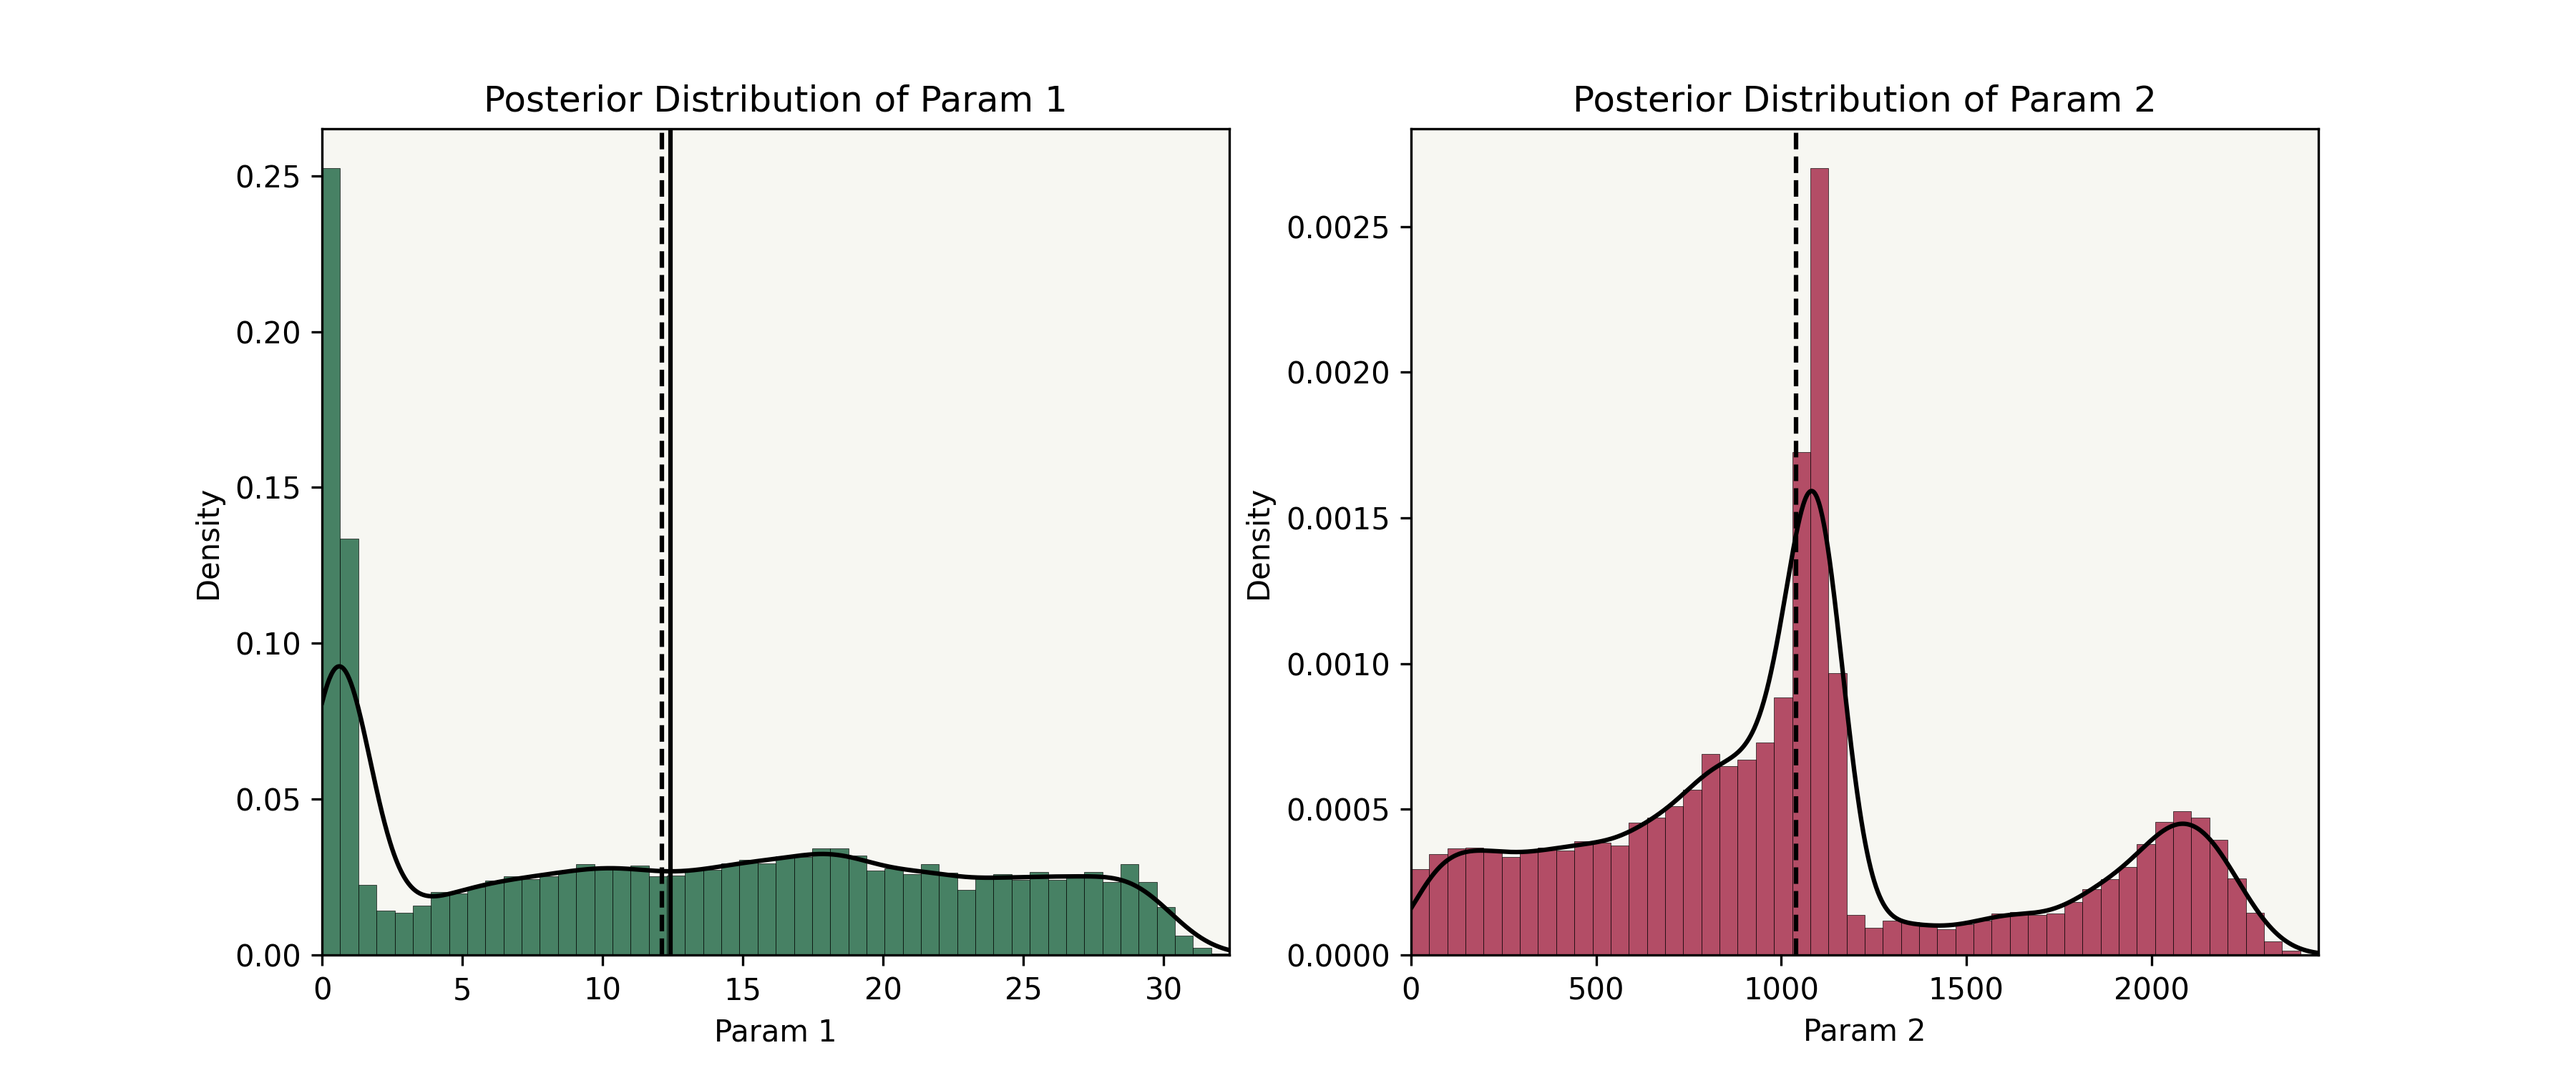
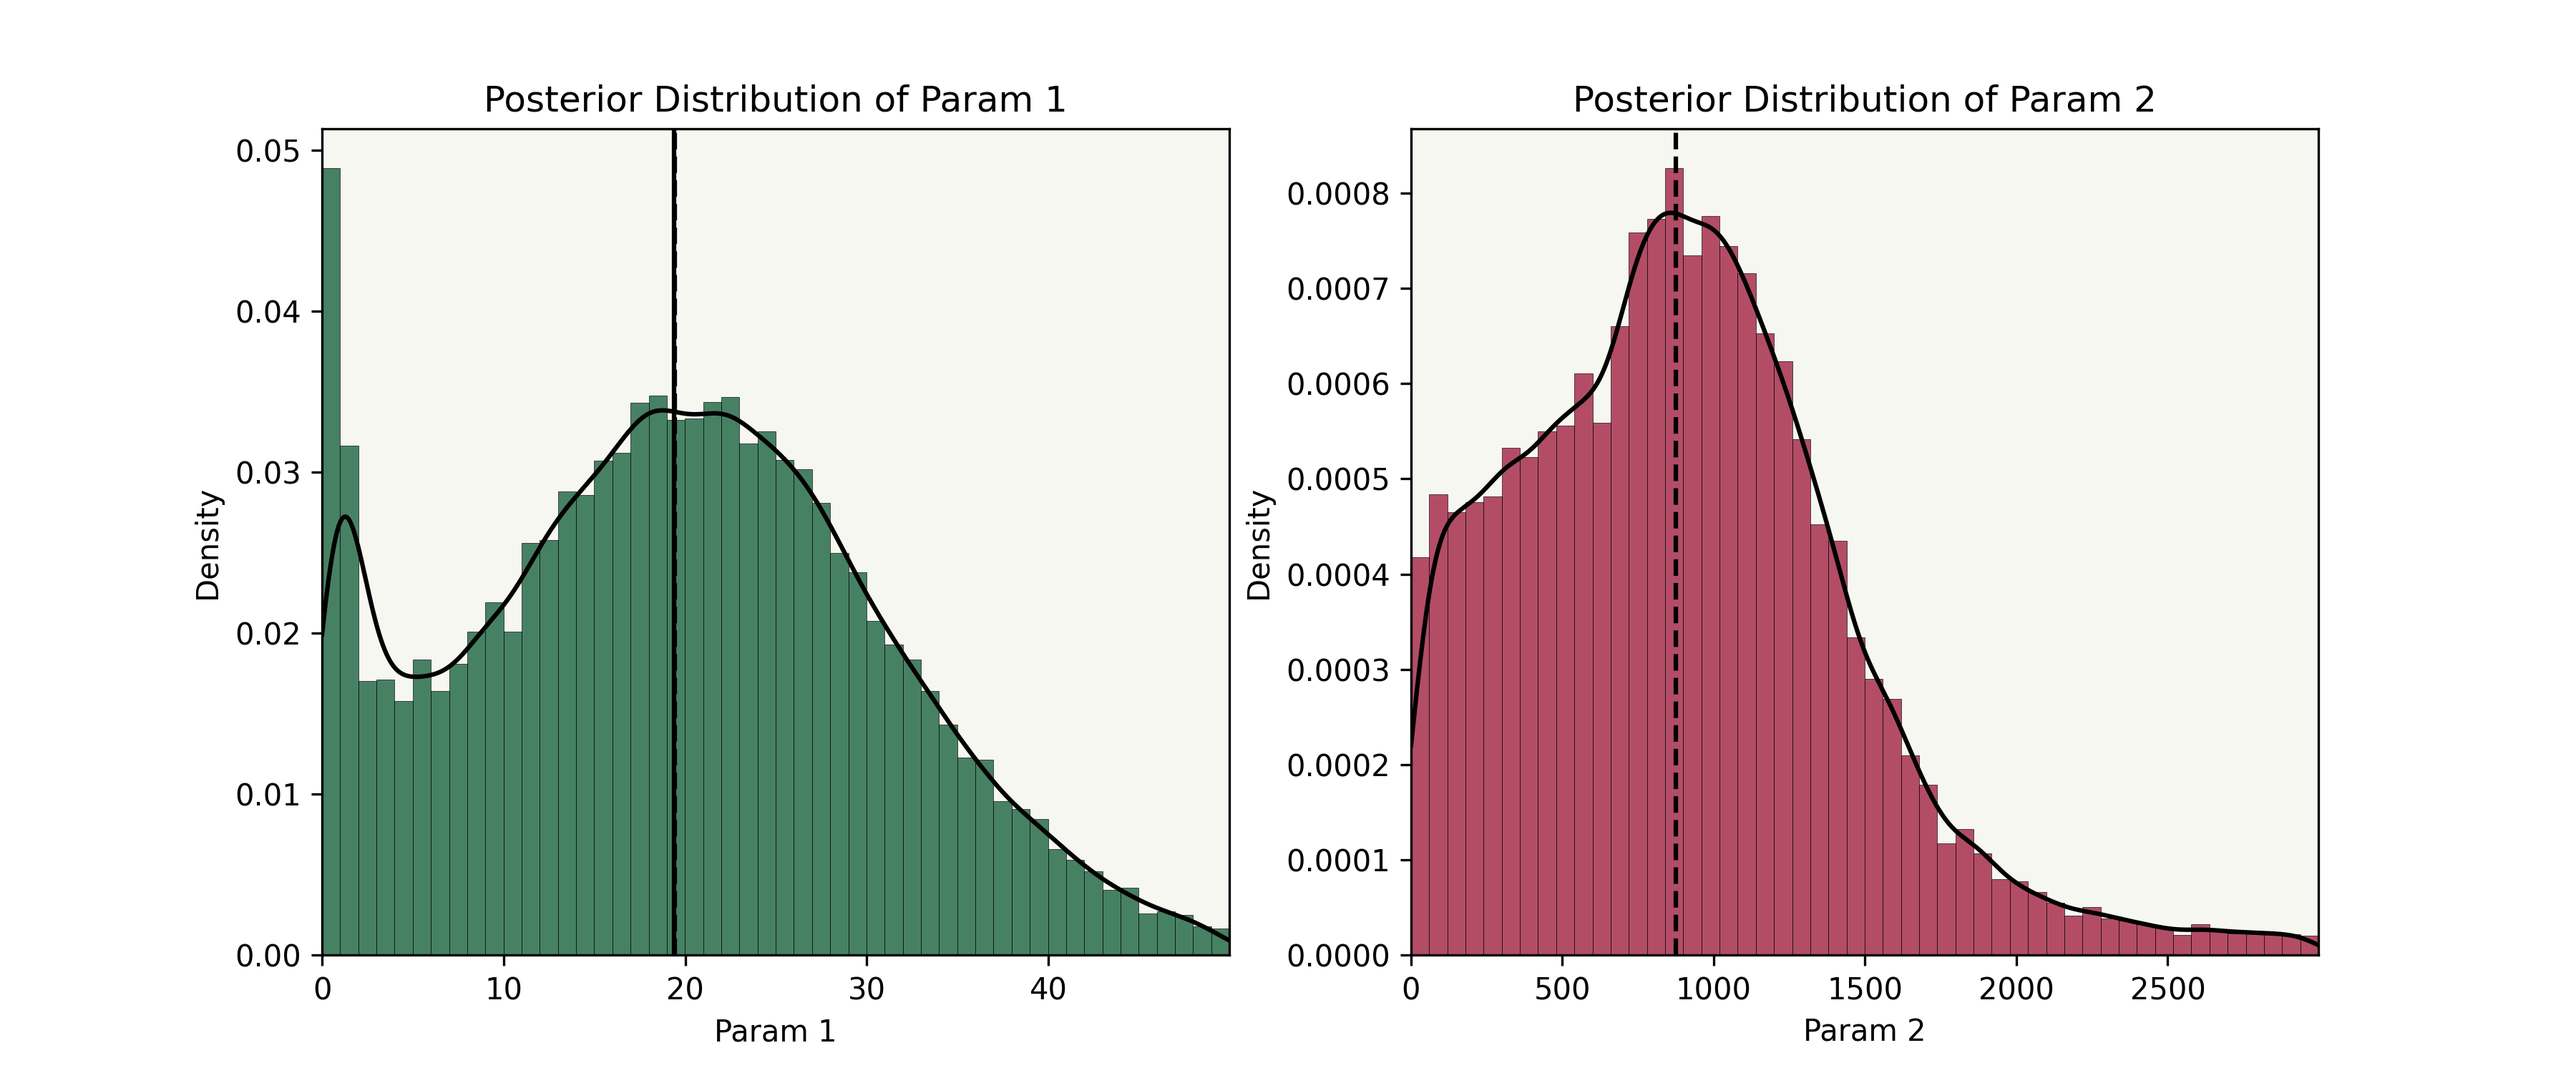
melt estimation

diff --git a/pide/pide.py b/pide/pide.py
@@ -4360,8 +4360,6 @@ class pide(object):
 			h2o_melt_local = np.array(self.h2o_melt)
 			temp = np.array(self.T)
 			pres = np.array(self.p)
-		import ipdb
-		ipdb.set_trace()
 	
 		#Calculating density, bulk_modulus and vp of melt_fluid
 		if pide.fluid_or_melt_method == 0: #fluid
@@ -4376,31 +4374,42 @@ class pide(object):
 			if self.density_fluid_loaded == False:
 			
 				if self.melt_composition_method == 'Default':
-				
+					
 					self.melt_comp = self._get_melt_composition(type = 'Default')
 					
 					self.set_melt_composition(self.melt_comp, default = True)
-					
+
+					if interp_for_iter == False:
+
+						melt_comp_calc = self.melt_comp.copy()
+					else:
+
+						melt_comp_calc = np.array([self.melt_comp[sol_idx].copy() for _ in range(len(temp))])
+						
 					if self.idx_melt_var is not None:
 						if 5 in self.idx_melt_var:
 							if np.mean(self.na2o_melt) == 0.0:
 								raise ValueError('You have to define Na2O of melt first to use the melt electrical conductivity with the chosen melt conductivity experiment. Use - e.g., set_melt_properties(na2o = 5.3)')
 							else:
-								self.melt_comp = _comp_adjust_idx_based(_comp_list = self.melt_comp, comp_alien = self.na2o_melt, idx = 5,array = True)
+								melt_comp_calc = _comp_adjust_idx_based(_comp_list = melt_comp_calc, comp_alien = self.na2o_melt, idx = 5,array = True)
 									
 					if self.idx_melt_var is not None:
 						if 6 in self.idx_melt_var:
 							if np.mean(self.k2o_melt) == 0.0:
 								raise ValueError('You have to define K2O of melt first to use the melt electrical conductivity with the chosen melt conductivity experiment. Use - e.g., set_melt_properties(k2o = 3.2)')
 							else:
-								self.melt_comp = _comp_adjust_idx_based(_comp_list = self.melt_comp, comp_alien = self.k2o_melt, idx = 6,array = True)
+								melt_comp_calc = _comp_adjust_idx_based(_comp_list = melt_comp_calc, comp_alien = self.k2o_melt, idx = 6,array = True)
 
 				elif self.melt_composition_method == 'Input':
-					if self.melt_comp is None:
+					if melt_comp_calc is None:
 						raise KeyError('You have to define melt composition first with the method: set_melt_composition.')
+					
+			else:
+
+				melt_comp_calc = self.melt_comp.copy()
 			
 			if np.mean(h2o_melt_local) != 0.0:
-				self.melt_comp = _comp_adjust_idx_based(_comp_list = self.melt_comp, comp_alien = h2o_melt_local*1e-4, idx = 11, array = True)
+				melt_comp_calc = _comp_adjust_idx_based(_comp_list = melt_comp_calc, comp_alien = h2o_melt_local*1e-4, idx = 11, array = True)
 				
 			try:
 				self.dens_melt_fluid
@@ -4410,21 +4419,35 @@ class pide(object):
 				self.K_melt_fluid = np.zeros(len(temp))
 							
 			if method == 'array':
-								
-				self.dens_melt_fluid, self.vp_melt_fluid, self.K_melt_fluid = Holland_Green_Powell_2018_ds633_MeltEOS(T = temp, P = pres, sio2 = self.melt_comp[:,0],
-				al2o3 = self.melt_comp[:,1],mgo = self.melt_comp[:,2],feo = self.melt_comp[:,3],cao = self.melt_comp[:,4],
-				na2o = self.melt_comp[:,5],k2o = self.melt_comp[:,6],tio2 = self.melt_comp[:,7],mno = self.melt_comp[:,8],p2o5 = self.melt_comp[:,9],
-				cr2o3 = self.melt_comp[:,10],h2o = self.melt_comp[:,11])
+				
+				if interp_for_iter == False:
+					self.dens_melt_fluid, self.vp_melt_fluid, self.K_melt_fluid = Holland_Green_Powell_2018_ds633_MeltEOS(T = temp, P = pres, sio2 = melt_comp_calc[:,0],
+					al2o3 = melt_comp_calc[:,1],mgo = melt_comp_calc[:,2],feo = melt_comp_calc[:,3],cao = melt_comp_calc[:,4],
+					na2o = melt_comp_calc[:,5],k2o = melt_comp_calc[:,6],tio2 = melt_comp_calc[:,7],mno = melt_comp_calc[:,8],p2o5 = melt_comp_calc[:,9],
+					cr2o3 = melt_comp_calc[:,10],h2o = melt_comp_calc[:,11])
+
+				else:
+
+					dens_melt_fluid, vp_melt_fluid, K_melt_fluid = Holland_Green_Powell_2018_ds633_MeltEOS(T = temp, P = pres, sio2 = melt_comp_calc[:,0],
+					al2o3 = melt_comp_calc[:,1],mgo = melt_comp_calc[:,2],feo = melt_comp_calc[:,3],cao = melt_comp_calc[:,4],
+					na2o = melt_comp_calc[:,5],k2o = melt_comp_calc[:,6],tio2 = melt_comp_calc[:,7],mno = melt_comp_calc[:,8],p2o5 = melt_comp_calc[:,9],
+					cr2o3 = melt_comp_calc[:,10],h2o = melt_comp_calc[:,11])
+
+					self.interp_1d_dens_fluid = interp1d(h2o_melt_local,dens_melt_fluid)
 				
 			elif method == 'index':
 				
 				#to avoid redundant re-calculation with iterative inversion things.
 				if self.dens_melt_fluid[idx_node] == 0.0:
 					
-					self.dens_melt_fluid[idx_node], self.vp_melt_fluid[idx_node], self.K_melt_fluid[idx_node] = Holland_Green_Powell_2018_ds633_MeltEOS(T = temp[idx_node], P = pres[idx_node], sio2 = self.melt_comp[:,0][idx_node],
-					al2o3 = self.melt_comp[:,1][idx_node],mgo = self.melt_comp[:,2][idx_node],feo = self.melt_comp[:,3][idx_node],cao = self.melt_comp[:,4][idx_node],
-					na2o = self.melt_comp[:,5][idx_node],k2o = self.melt_comp[:,6][idx_node],tio2 = self.melt_comp[:,7][idx_node],mno = self.melt_comp[:,8][idx_node],p2o5 = self.melt_comp[:,9][idx_node],
-					cr2o3 = self.melt_comp[:,10][idx_node],h2o = self.melt_comp[:,11][idx_node], method = 'index')
+					self.dens_melt_fluid[idx_node], self.vp_melt_fluid[idx_node], self.K_melt_fluid[idx_node] = Holland_Green_Powell_2018_ds633_MeltEOS(T = temp[idx_node], P = pres[idx_node], sio2 = melt_comp_calc[:,0][idx_node],
+					al2o3 = melt_comp_calc[:,1][idx_node],mgo = melt_comp_calc[:,2][idx_node],feo = melt_comp_calc[:,3][idx_node],cao = melt_comp_calc[:,4][idx_node],
+					na2o = melt_comp_calc[:,5][idx_node],k2o = melt_comp_calc[:,6][idx_node],tio2 = melt_comp_calc[:,7][idx_node],mno = melt_comp_calc[:,8][idx_node],p2o5 = melt_comp_calc[:,9][idx_node],
+					cr2o3 = melt_comp_calc[:,10][idx_node],h2o = melt_comp_calc[:,11][idx_node], method = 'index')
+
+				else:
+
+					self.dens_melt_fluid[idx_node] = self.interp_1d_dens_fluid(h2o_melt_local[idx_node])
 				
 			#dealing with addition of co2, because HWGP_2018 do not calculate the effects of CO2
 			if np.mean(self.co2_melt) > 0.0:

diff --git a/pide/inversion.py b/pide/inversion.py
@@ -430,9 +430,16 @@ def _solv_MCMC_two_param(index, cond_list, object, initial_params, param_name_1,
 				object.transition_zone_water_distribute(method = 'index', sol_idx = index)
 				
 			if melt_solv == True:
-				import ipdb
-				ipdb.set_trace()
-				object.calculate_density_fluid(sol_idx = index, method = 'array', interp_for_iter = True)
+				
+				#to interpolation of fluid density so eos do not have to be solved at each iteration.
+				try:
+					water_index = [param_name_1,param_name_2].index('bulk_water')
+					water_end = upper_limits[water_index] + (upper_limits[water_index] * 1000)
+					water_end = water_end[0]
+				except ValueError:
+					water_end = 1e6
+
+				object.calculate_density_fluid(sol_idx = index, method = 'array', interp_for_iter = True, water_start = 0, water_end = water_end)
 
 		#Calculating the initial conductivity
 		cond_init = object.calculate_conductivity(method = 'index', sol_idx = index)

diff --git a/examples/melt_estimation.py b/examples/melt_estimation.py
@@ -133,7 +133,7 @@ initial_water = 1000
 initial_melt = 0.3
 initial_params = [[initial_water, initial_melt]]
 
-sigma = 0.01 * np.ones(len(temperature))#in log
+sigma = 0.1 * np.ones(len(temperature))#in log
 n_iterations = 200000
 proposal_std = [1500,0.25]
 burning = 10000
